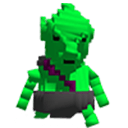
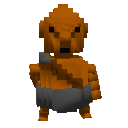
고블린 그린 아이콘 변경, 서번트 몬스터 스피드 변경, 보상창에서 서번트 몬스터 위치 변경

diff --git a/UnlimitedTowerClient/TowerMain/UnlimitedTower/Assets/BattleSystem/NewScript/BattleManager.cs b/UnlimitedTowerClient/TowerMain/UnlimitedTower/Assets/BattleSystem/NewScript/BattleManager.cs
@@ -284,18 +284,18 @@ public class BattleManager : MonoSingleton<BattleManager>
         {
             if (state.Value.charType == CHAR_TYPE.SERVANT)
             {
-                Exp.transform.GetChild(positionOrder[state.Value.position]).GetChild(0).GetComponent<Image>().sprite = CSVData.Inst.DBServantDataDic[state.Value.id].servantIcon;
-                Exp.transform.GetChild(positionOrder[state.Value.position]).GetChild(2).gameObject.SetActive(true);
-                Exp.transform.GetChild(positionOrder[state.Value.position]).GetChild(2).GetChild(0).GetComponent<Text>().text = UserDataManager.Inst.GetServantInfo(state.Value.index).level.ToString();
-                Exp.transform.GetChild(positionOrder[state.Value.position]).GetChild(3).GetComponent<Image>().sprite = CSVData.Inst.GetSpriteServantJob((SERVANT_JOB)state.Value.job);
+                Exp.transform.GetChild(positionOrder[state.Value.position + 5]).GetChild(0).GetComponent<Image>().sprite = CSVData.Inst.DBServantDataDic[state.Value.id].servantIcon;
+                Exp.transform.GetChild(positionOrder[state.Value.position + 5]).GetChild(2).gameObject.SetActive(true);
+                Exp.transform.GetChild(positionOrder[state.Value.position + 5]).GetChild(2).GetChild(0).GetComponent<Text>().text = UserDataManager.Inst.GetServantInfo(state.Value.index).level.ToString();
+                Exp.transform.GetChild(positionOrder[state.Value.position + 5]).GetChild(3).GetComponent<Image>().sprite = CSVData.Inst.GetSpriteServantJob((SERVANT_JOB)state.Value.job);
             }
             else if (state.Value.charType == CHAR_TYPE.MONSTER)
             {
-                Exp.transform.GetChild(positionOrder[state.Value.position]).GetChild(0).GetComponent<Image>().sprite = CSVData.Inst.DBMonsterDataDic[state.Value.id].monsterIcon;
-                Exp.transform.GetChild(positionOrder[state.Value.position]).GetChild(2).gameObject.SetActive(true);
-                Exp.transform.GetChild(positionOrder[state.Value.position]).GetChild(2).GetChild(0).GetComponent<Text>().text = UserDataManager.Inst.GetMonsterInfo(state.Value.index).level.ToString();
-                Exp.transform.GetChild(positionOrder[state.Value.position]).GetChild(3).GetComponent<Image>().sprite = CSVData.Inst.GetSmallSpriteTribeType((TRIBE_TYPE)state.Value.tribeType);
-                Exp.transform.GetChild(positionOrder[state.Value.position]).GetChild(4).GetComponent<Image>().sprite = CSVData.Inst.GetSpriteElementType((ELEMENT_TYPE)state.Value.elementType);
+                Exp.transform.GetChild(positionOrder[state.Value.position - 5]).GetChild(0).GetComponent<Image>().sprite = CSVData.Inst.DBMonsterDataDic[state.Value.id].monsterIcon;
+                Exp.transform.GetChild(positionOrder[state.Value.position - 5]).GetChild(2).gameObject.SetActive(true);
+                Exp.transform.GetChild(positionOrder[state.Value.position - 5]).GetChild(2).GetChild(0).GetComponent<Text>().text = UserDataManager.Inst.GetMonsterInfo(state.Value.index).level.ToString();
+                Exp.transform.GetChild(positionOrder[state.Value.position - 5]).GetChild(3).GetComponent<Image>().sprite = CSVData.Inst.GetSmallSpriteTribeType((TRIBE_TYPE)state.Value.tribeType);
+                Exp.transform.GetChild(positionOrder[state.Value.position - 5]).GetChild(4).GetComponent<Image>().sprite = CSVData.Inst.GetSpriteElementType((ELEMENT_TYPE)state.Value.elementType);
             }
             Exp.transform.GetChild(positionOrder[state.Value.position]).GetComponent<Image>().sprite = CSVData.Inst.GetSpriteGrade((GRADE_TYPE)state.Value.grade);
         }
